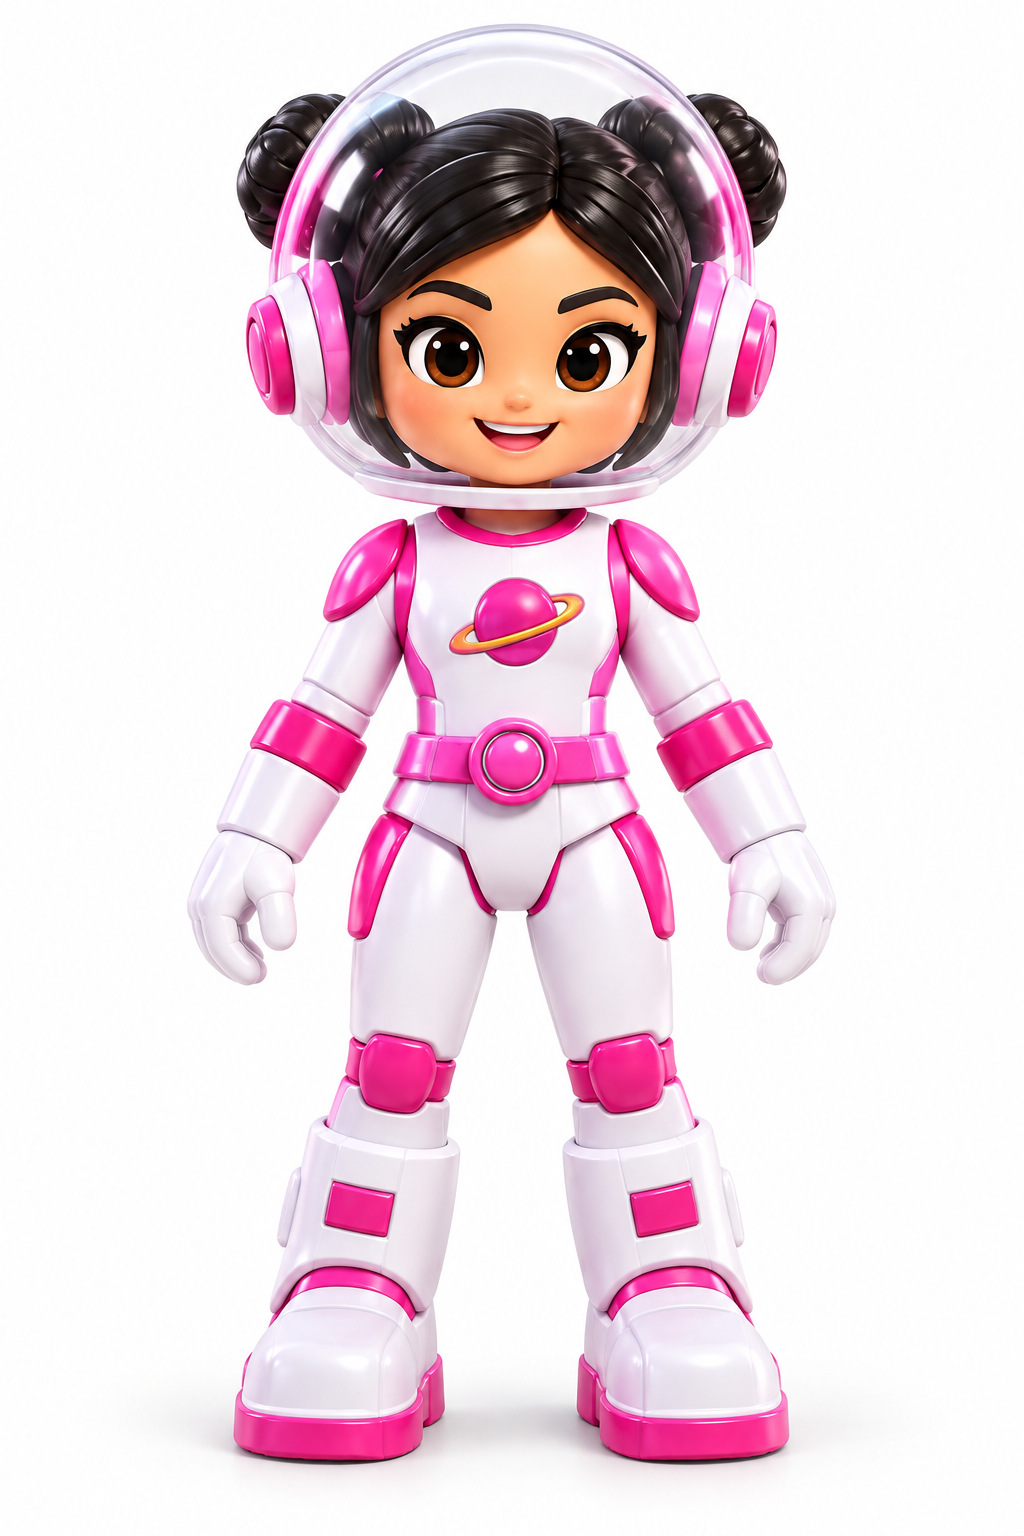
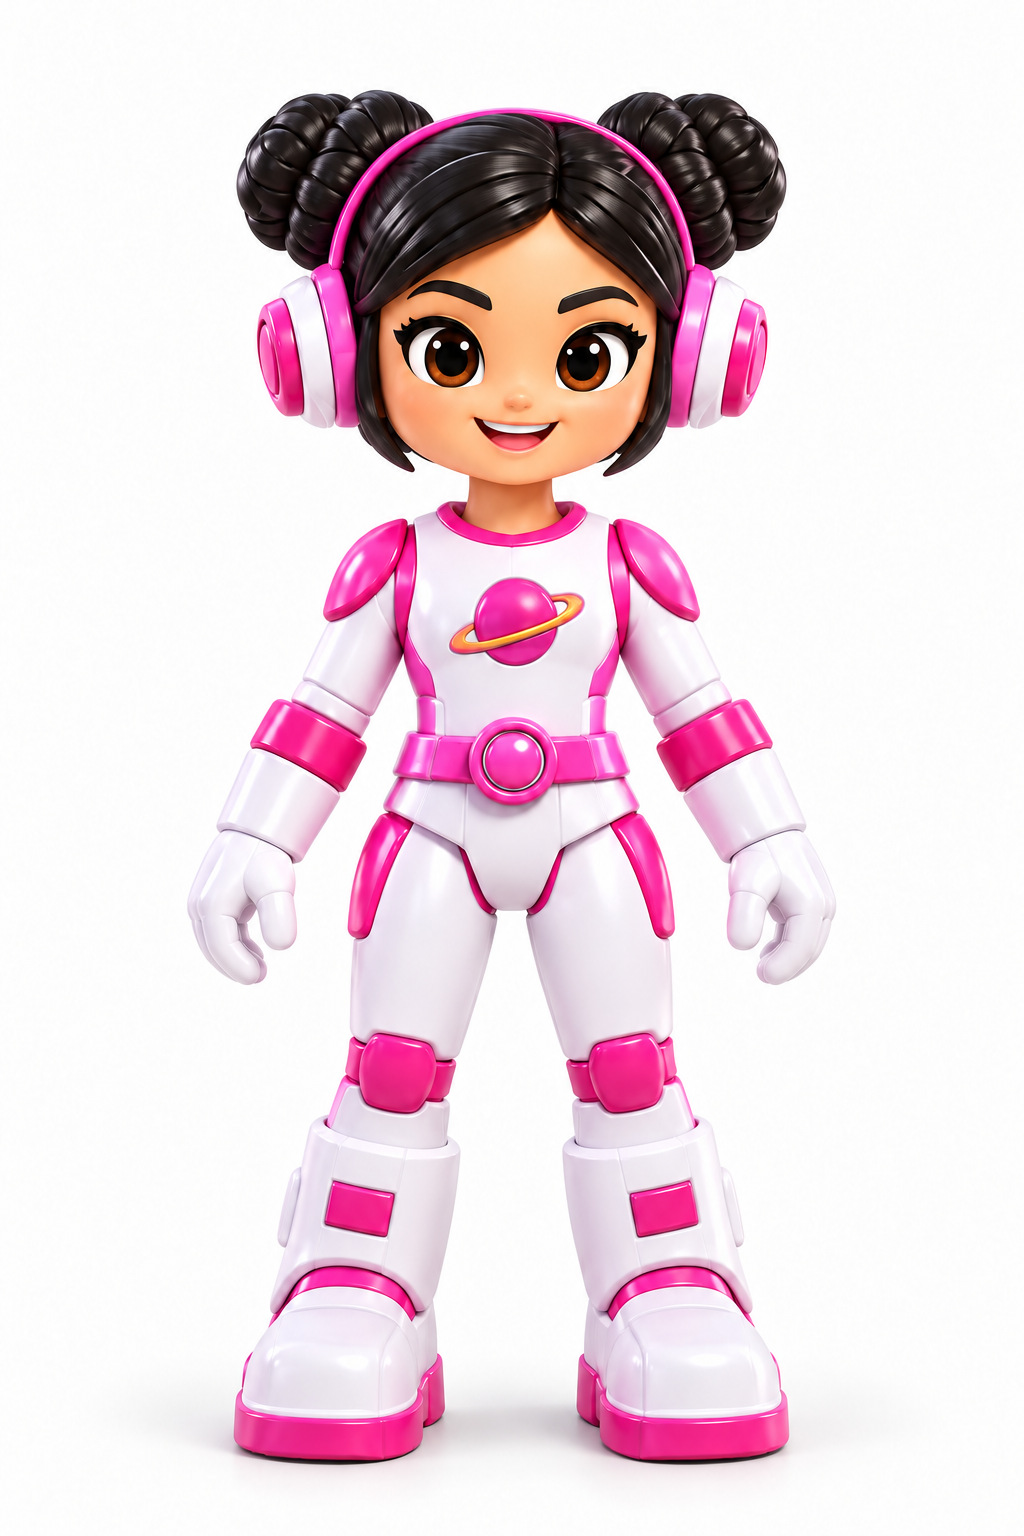
3D heroes: Aya's new picture (no glass helmet) and her model
Claude-Session: https://claude.ai/code/session_01NfQa6vjxVajzp9ht2sMZyB

diff --git a/tools/meshy/glbtool.py b/tools/meshy/glbtool.py
@@ -6,9 +6,10 @@
         make the pictures inside smaller (JPEG unless they need see-through parts)
   python3 glbtool.py armature IN.glb OUT.glb
         keep only the skeleton and the animations (no mesh, no pictures)
-  python3 glbtool.py merge MODEL.glb OUT.glb ANIM.glb[:new_name] ...
+  python3 glbtool.py merge MODEL.glb OUT.glb [--mode=copy|delta|world] ANIM.glb[:new_name] ...
         copy the animations of other files onto the model's skeleton, matching bones by name.
         name the clip(s) of a file with :new_name (one clip) or :old=new,old2=new2
+        --mode=world turns each bone the way the other skeleton's bone turns (any rest pose or axes)
 
 The block heroes' 3D models come from Meshy (image to 3D, then rigging and animations).
 """
@@ -299,6 +300,164 @@ def merge_animations(model, src, rename=None, mode='copy', hips_scale=True, only
     return added
 
 
+# ---------- retargeting in world space (skeletons with the same bones but different rest poses or axes) ----------
+def _q_mul(a, b):
+    import numpy as np
+    ax, ay, az, aw = a[..., 0], a[..., 1], a[..., 2], a[..., 3]
+    bx, by, bz, bw = b[..., 0], b[..., 1], b[..., 2], b[..., 3]
+    return np.stack([aw * bx + ax * bw + ay * bz - az * by, aw * by - ax * bz + ay * bw + az * bx,
+                     aw * bz + ax * by - ay * bx + az * bw, aw * bw - ax * bx - ay * by - az * bz], -1)
+
+
+def _q_inv(q):
+    import numpy as np
+    return q * np.array([-1, -1, -1, 1.0])
+
+
+def _q_rot(q, v):
+    import numpy as np
+    qv = np.concatenate([v, np.zeros(v.shape[:-1] + (1,))], -1)
+    return _q_mul(_q_mul(q, qv), _q_inv(q))[..., :3]
+
+
+def _mat_to_trs(m):
+    import numpy as np
+    M = np.array(m, dtype=float).reshape(4, 4).T  # glTF matrices are column-major
+    t = M[:3, 3]; sx, sy, sz = [np.linalg.norm(M[:3, i]) for i in range(3)]
+    R = M[:3, :3] / np.array([sx, sy, sz])
+    w = math.sqrt(max(0, 1 + R[0, 0] + R[1, 1] + R[2, 2])) / 2
+    if w > 1e-4:
+        q = np.array([(R[2, 1] - R[1, 2]) / (4 * w), (R[0, 2] - R[2, 0]) / (4 * w), (R[1, 0] - R[0, 1]) / (4 * w), w])
+    else:
+        i = int(np.argmax([R[0, 0], R[1, 1], R[2, 2]])); j, k = (i + 1) % 3, (i + 2) % 3
+        r = math.sqrt(max(0, 1 + R[i, i] - R[j, j] - R[k, k])); q = np.zeros(4); q[i] = r / 2
+        q[j] = (R[j, i] + R[i, j]) / (2 * r); q[k] = (R[k, i] + R[i, k]) / (2 * r); q[3] = (R[k, j] - R[j, k]) / (2 * r)
+    return t, q / np.linalg.norm(q), np.array([sx, sy, sz])
+
+
+class _Skel:
+    def __init__(self, doc):
+        import numpy as np
+        J = doc.J; nodes = J.get('nodes', [])
+        self.n = len(nodes); self.parent = [-1] * self.n
+        for i, nd in enumerate(nodes):
+            for c in nd.get('children', []): self.parent[c] = i
+        self.T = np.zeros((self.n, 3)); self.R = np.tile([0, 0, 0, 1.0], (self.n, 1)); self.S = np.ones((self.n, 3))
+        for i, nd in enumerate(nodes):
+            if 'matrix' in nd:
+                self.T[i], self.R[i], self.S[i] = _mat_to_trs(nd['matrix'])
+            else:
+                self.T[i] = nd.get('translation', [0, 0, 0]); self.R[i] = nd.get('rotation', [0, 0, 0, 1]); self.S[i] = nd.get('scale', [1, 1, 1])
+        self.order = []
+        seen = set()
+        def visit(i):
+            if i in seen: return
+            seen.add(i); self.order.append(i)
+            for c in nodes[i].get('children', []): visit(c)
+        for i in range(self.n):
+            if self.parent[i] < 0: visit(i)
+        self.names = [nd.get('name', '') for nd in nodes]
+
+    def world(self, T, R, S):
+        """world rotation (F x n x 4) and position (F x n x 3) for local T, R, S (F x n x k)"""
+        import numpy as np
+        F = R.shape[0]
+        WR = np.zeros((F, self.n, 4)); WP = np.zeros((F, self.n, 3)); WS = np.ones((F, self.n, 3))
+        for i in self.order:
+            p = self.parent[i]
+            if p < 0:
+                WR[:, i] = R[:, i]; WP[:, i] = T[:, i]; WS[:, i] = S[:, i]
+            else:
+                WR[:, i] = _q_mul(WR[:, p], R[:, i]); WS[:, i] = WS[:, p] * S[:, i]
+                WP[:, i] = WP[:, p] + _q_rot(WR[:, p], WS[:, p] * T[:, i])
+        return WR, WP, WS
+
+
+def _sample(times, vals, t, rot):
+    import numpy as np
+    times = np.asarray(times, float); vals = np.asarray(vals, float)
+    if len(times) == 1: return np.repeat(vals[:1], len(t), 0)
+    idx = np.clip(np.searchsorted(times, t, side='right') - 1, 0, len(times) - 2)
+    t0, t1 = times[idx], times[idx + 1]; f = np.clip((t - t0) / np.maximum(t1 - t0, 1e-9), 0, 1)[:, None]
+    a, b = vals[idx], vals[idx + 1]
+    if not rot: return a + (b - a) * f
+    d = np.sum(a * b, -1, keepdims=True); b = np.where(d < 0, -b, b); out = a + (b - a) * f  # nlerp is plenty at 30 frames a second
+    return out / np.linalg.norm(out, axis=-1, keepdims=True)
+
+
+def retarget_world(model, src, rename=None, fps=30, only=None):
+    """copy src's clips onto model: every bone turns in the world the way the same bone turns in src (from each one's own
+    rest pose), and the hips move up and down scaled to the model's size. Works across different exporters and axes."""
+    import numpy as np
+    tg, sk = _Skel(model), _Skel(src)
+    skel = set()
+    for s in model.J.get('skins', []): skel.update(s['joints'])
+    smap = {}
+    for i, nm in enumerate(sk.names): smap.setdefault(bone_key(nm), i)
+    pairs = {i: smap[bone_key(tg.names[i])] for i in skel if bone_key(tg.names[i]) in smap}
+    hips_t = next((i for i in tg.order if i in skel and ('hips' in bone_key(tg.names[i]) or 'pelvis' in bone_key(tg.names[i]))), None)
+    # rest pose of both (frame axis of size 1)
+    sWR0, sWP0, _ = sk.world(sk.T[None], sk.R[None], sk.S[None]); tWR0, tWP0, tWS0 = tg.world(tg.T[None], tg.R[None], tg.S[None])
+    k = 1.0
+    if hips_t is not None and hips_t in pairs:
+        hs, ht = sWP0[0, pairs[hips_t]], tWP0[0, hips_t]
+        # heights above the lowest bone of each skeleton
+        lo_s = min(sWP0[0, j, 1] for j in pairs.values()); lo_t = min(tWP0[0, j, 1] for j in pairs)
+        if hs[1] - lo_s > 1e-6: k = (ht[1] - lo_t) / (hs[1] - lo_s)
+    added = []
+    for an in src.J.get('animations', []):
+        name = an.get('name', '')
+        if only and name not in only: continue
+        new_name = (rename if isinstance(rename, str) else (rename or {}).get(name, name)) if rename else name
+        chans = []
+        dur = 0
+        for ch in an.get('channels', []):
+            t = ch.get('target', {}); smp = an['samplers'][ch['sampler']]
+            if t.get('node') is None or t.get('path') not in ('rotation', 'translation', 'scale'): continue
+            if smp.get('interpolation', 'LINEAR') == 'CUBICSPLINE': continue
+            tm = [v[0] for v in src.accessor_values(smp['input'])]; dur = max(dur, tm[-1] if tm else 0)
+            chans.append((t['node'], t['path'], tm, src.accessor_values(smp['output']), smp.get('interpolation', 'LINEAR')))
+        if not chans: continue
+        F = max(2, int(round(dur * fps)) + 1); times = np.linspace(0, dur, F)
+        T = np.repeat(sk.T[None], F, 0); R = np.repeat(sk.R[None], F, 0); S = np.repeat(sk.S[None], F, 0)
+        for node, path, tm, vals, ip in chans:
+            v = _sample(tm, vals, times, path == 'rotation')
+            if path == 'rotation': R[:, node] = v
+            elif path == 'translation': T[:, node] = v
+            else: S[:, node] = v
+        sWR, sWP, _ = sk.world(T, R, S)
+        # the model, bone by bone from the root: wanted world turn -> local turn
+        tR = np.repeat(tg.R[None], F, 0); tT = np.repeat(tg.T[None], F, 0)
+        WR = np.zeros((F, tg.n, 4)); WP = np.zeros((F, tg.n, 3)); WS = np.ones((F, tg.n, 3))
+        for i in tg.order:
+            p = tg.parent[i]
+            pR = WR[:, p] if p >= 0 else np.tile([0, 0, 0, 1.0], (F, 1)); pS = WS[:, p] if p >= 0 else np.ones((F, 3)); pP = WP[:, p] if p >= 0 else np.zeros((F, 3))
+            if i in pairs:
+                j = pairs[i]
+                want = _q_mul(_q_mul(sWR[:, j], _q_inv(sWR0[0, j])[None]), tWR0[0, i][None])
+                tR[:, i] = _q_mul(_q_inv(pR), want)
+                if i == hips_t:
+                    wpos = tWP0[0, i][None] + (sWP[:, j] - sWP0[0, j][None]) * k
+                    tT[:, i] = _q_rot(_q_inv(pR), wpos - pP) / np.maximum(pS, 1e-9)
+            WR[:, i] = _q_mul(pR, tR[:, i]); WS[:, i] = pS * tg.S[i]; WP[:, i] = pP + _q_rot(pR, pS * tT[:, i])
+        # keep the turns continuous (no flips between frames)
+        for i in pairs:
+            q = tR[:, i]
+            for f2 in range(1, F):
+                if np.dot(q[f2], q[f2 - 1]) < 0: q[f2] = -q[f2]
+        out = {'name': new_name, 'channels': [], 'samplers': []}
+        tin = model.add_float_accessor([(float(x),) for x in times], 'SCALAR', minmax=True)
+        for i in sorted(pairs):
+            out['samplers'].append({'input': tin, 'output': model.add_float_accessor([tuple(map(float, r)) for r in tR[:, i]], 'VEC4'), 'interpolation': 'LINEAR'})
+            out['channels'].append({'sampler': len(out['samplers']) - 1, 'target': {'node': i, 'path': 'rotation'}})
+        if hips_t is not None and hips_t in pairs:
+            out['samplers'].append({'input': tin, 'output': model.add_float_accessor([tuple(map(float, r)) for r in tT[:, hips_t]], 'VEC3'), 'interpolation': 'LINEAR'})
+            out['channels'].append({'sampler': len(out['samplers']) - 1, 'target': {'node': hips_t, 'path': 'translation'}})
+        model.J['animations'] = [a for a in model.J.get('animations', []) if a.get('name') != new_name] + [out]
+        added.append(new_name)
+    return added
+
+
 def info(path):
     d = Doc.load(path); J = d.J
     print(path, '| JSON nodes', len(J.get('nodes', [])), '| BIN', round(len(d.BIN) / 1e6, 2), 'MB')
@@ -350,7 +509,10 @@ def main(argv):
             if ren:
                 rename = dict(p.split('=', 1) for p in ren.split(',')) if '=' in ren else ren
             src = Doc.load(path)
-            print(' from', path, '->', merge_animations(model, src, rename, mode))
+            if mode == 'world':
+                print(' from', path, '->', retarget_world(model, src, rename))
+            else:
+                print(' from', path, '->', merge_animations(model, src, rename, mode))
         n = model.save(out); print('wrote', out, round(n / 1e6, 2), 'MB'); return 0
     print(__doc__); return 1
 
